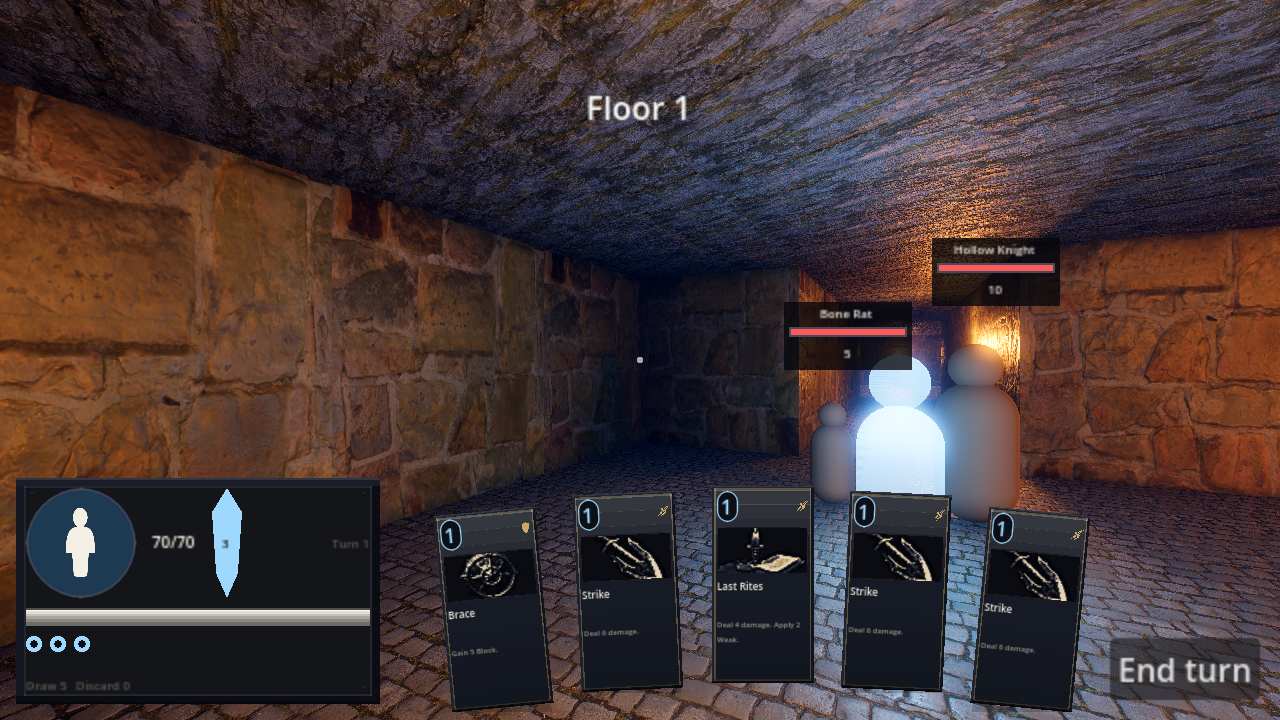
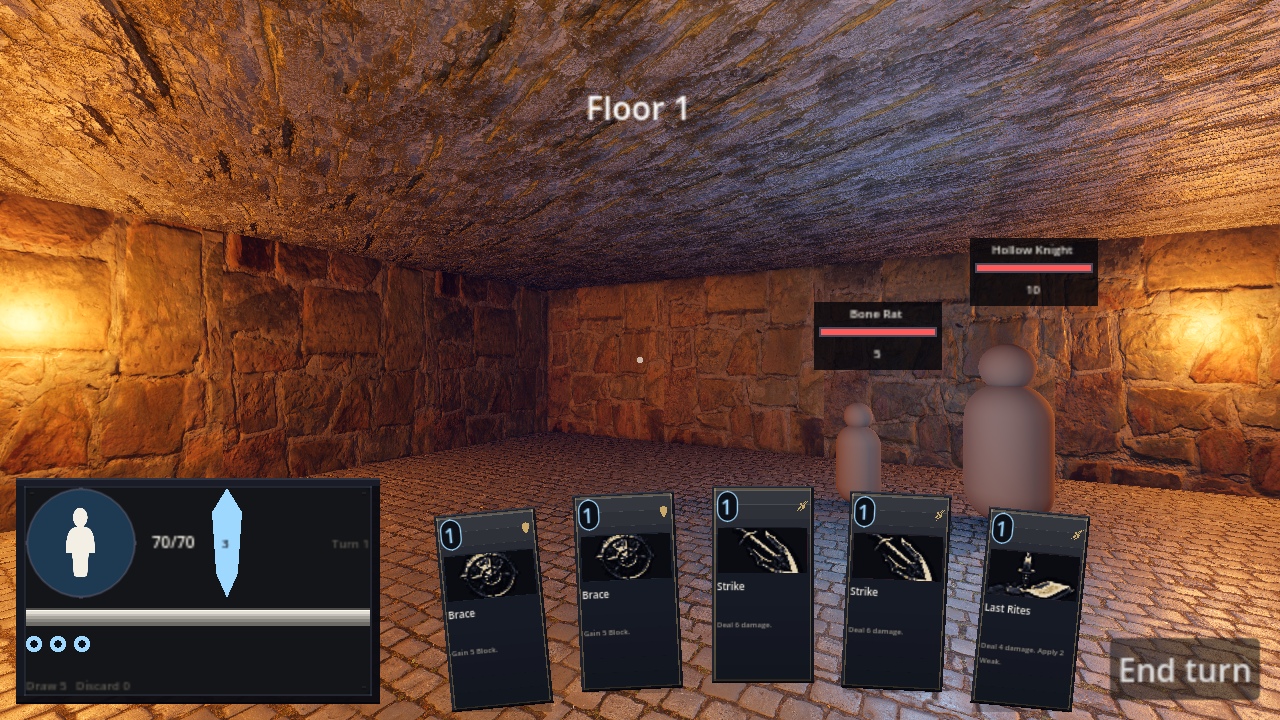
docs(look): record the stage 7 look pass and what it found

diff --git a/docs/superpowers/plans/2026-08-29-3d-s7-playable.md b/docs/superpowers/plans/2026-08-29-3d-s7-playable.md
@@ -95,3 +95,44 @@ Taken from five screenshots of the **real** game — real `Crawl`, real HUD, rea
 ## Self-review
 
 Every item in the review table maps to a batch: 1→B, 2/3/4/7→A, 5→D, 6/8/9/10→C, 11→E, 12→E. The two deliberate exclusions are stated above with reasons. Tests are written where a test can see the thing: fan geometry, tag de-collision, bearing maths, settings round-trip, menu structure and Escape precedence. Colour, dimming and "does it feel right" are verified by re-rendering the same five shots and looking at them, which is the method that produced this review in the first place.
+
+---
+
+## Executed — batches A, C (partial), D
+
+**739 tests, 81 suites, green.** Before/after in `docs/shots/review/`: `fight.png` → `fight_final.png`, `corridor_v2..v4.png`.
+
+### Done
+
+| Review item | What changed |
+|---|---|
+| 2 · cards covered the fight | `HandView.CARD_SCALE` 0.62, `FAN_SPREAD` 1.02→1.32, gutters measured from `HeroPanel.PANEL_SIZE` instead of guessed, hover raises and un-tilts a card |
+| 3 · enemy tags collided | `EnemyTag.spread()` — a pure de-collider; tags narrowed 92→58 and given a backing plate; intent text bone instead of dark red |
+| 4 · end turn clipped | anchored to the corner instead of positioned by arithmetic |
+| 5 · no menus | `PauseMenu`, `OptionsMenu`, `Settings` (sensitivity, invert, FOV, volume, fullscreen) persisted to `user://settings.cfg`, applied live |
+| 6 · nothing dimmed | `HudRoot.dim` fades the room behind any panel |
+| 7 · no crosshair | `Crosshair` — a dot that opens into a ring on anything actionable |
+| 9 · banner off-centre, outstayed | `PRESET_TOP_WIDE` (a centre-anchored label centres its own left edge), and `hush()` when a panel opens |
+| 12 · one flat orange | the whole look pass, below |
+
+### The look pass
+
+The single biggest change, and it was a colour problem, not a lighting problem:
+
+- **Ambient fill 0.085 → 0.22, cold blue.** With almost no fill, the only light in the game was the torches, so every surface was a value of the same orange and the image had no colour contrast anywhere. That is what "muy sombrío" was describing.
+- **Stone tinted cool-grey** (`Kit.STONE_TINT`). The CC0 sets are warm sandstone; tinting the albedo pulls the colour out of the texture so it comes from the lighting instead. A stone wall is grey and looks orange because it is lit by fire.
+- **Torches 5.0 → 3.6, tonemap white 4.0 → 8.0.** Every torch was clipping to pure white, and a blown highlight has no colour — the brightest thing in the frame was also the least warm.
+- **Hero torch 2.6 → 4.4.** With the fill raised, a weak hero torch left everything within arm's reach blue, which is the one place the player's own light should win.
+- Added SSIL, stronger glow with an HDR threshold, and one `adjustment` block (saturation 1.18, contrast 1.06).
+
+### Bugs the screenshots found that no test could
+
+1. `FOG_MODE_DEPTH` ignores `fog_density` entirely — switching to it silently turned the fog off over the twenty metres a corridor spans.
+2. `_face()` aimed the camera at the room's geometric centre, so walking in from a corner left the enemies off to one side of the screen.
+3. Ghost figures blew out to pure white under the new headroom, **and** stood on room centres — the same point the fight stages on, so a ghost ended up inside the enemy.
+4. The vitals had no backing plate: bar, orbs and numbers floated loose on lit stone, each legible, the group reading as debris.
+
+### Deliberately not done, with reasons
+
+- **No "Abandon run" in the pause menu.** `core/` has no abandon action — the only way out of a run is the exit decision at phase `exit`. Whether abandoning kills the hero, banks the Soul, or counts as a death for the ladder is an **economy** question, and a pause menu does not get to decide it. Quitting saves mid-run and resumes, so nothing is trapped.
+- **Batch B (compass / where to go) and batch E (guild reads) are still open.** They are the #1 item in the review and still the biggest gameplay problem.
